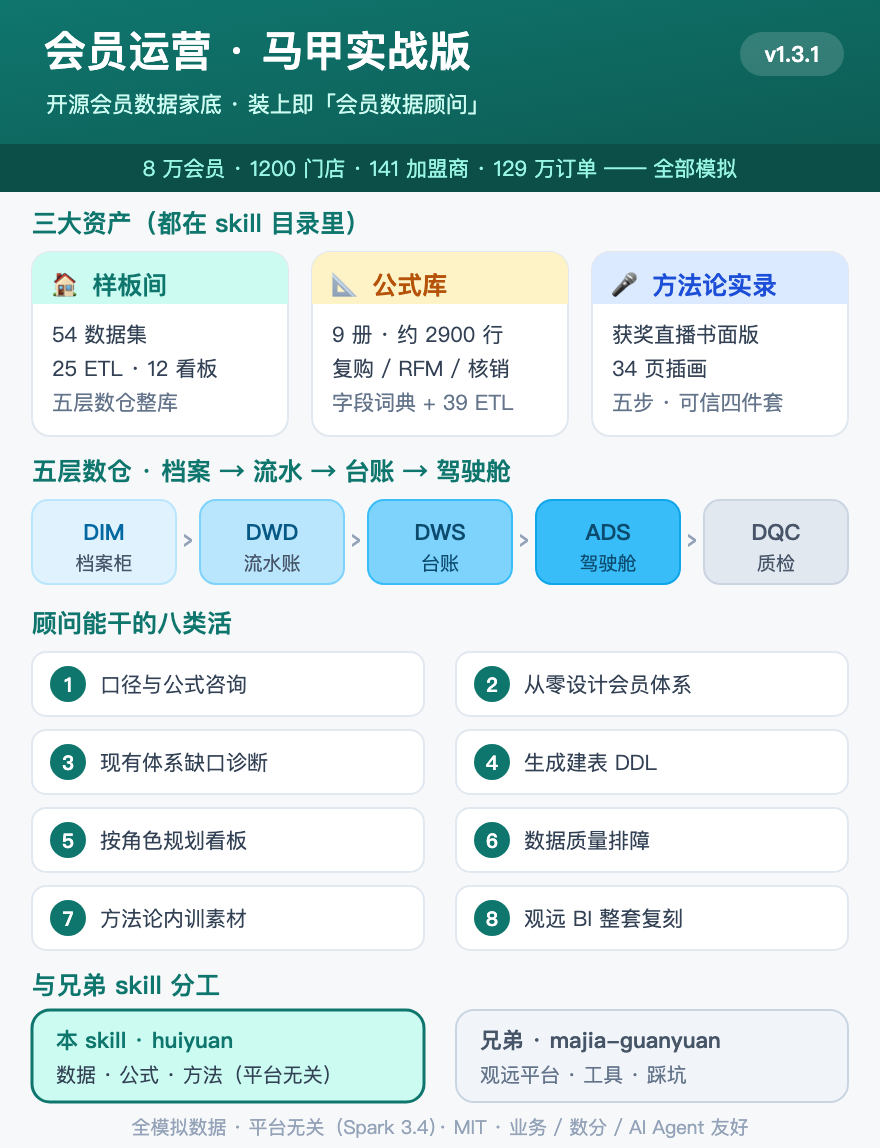
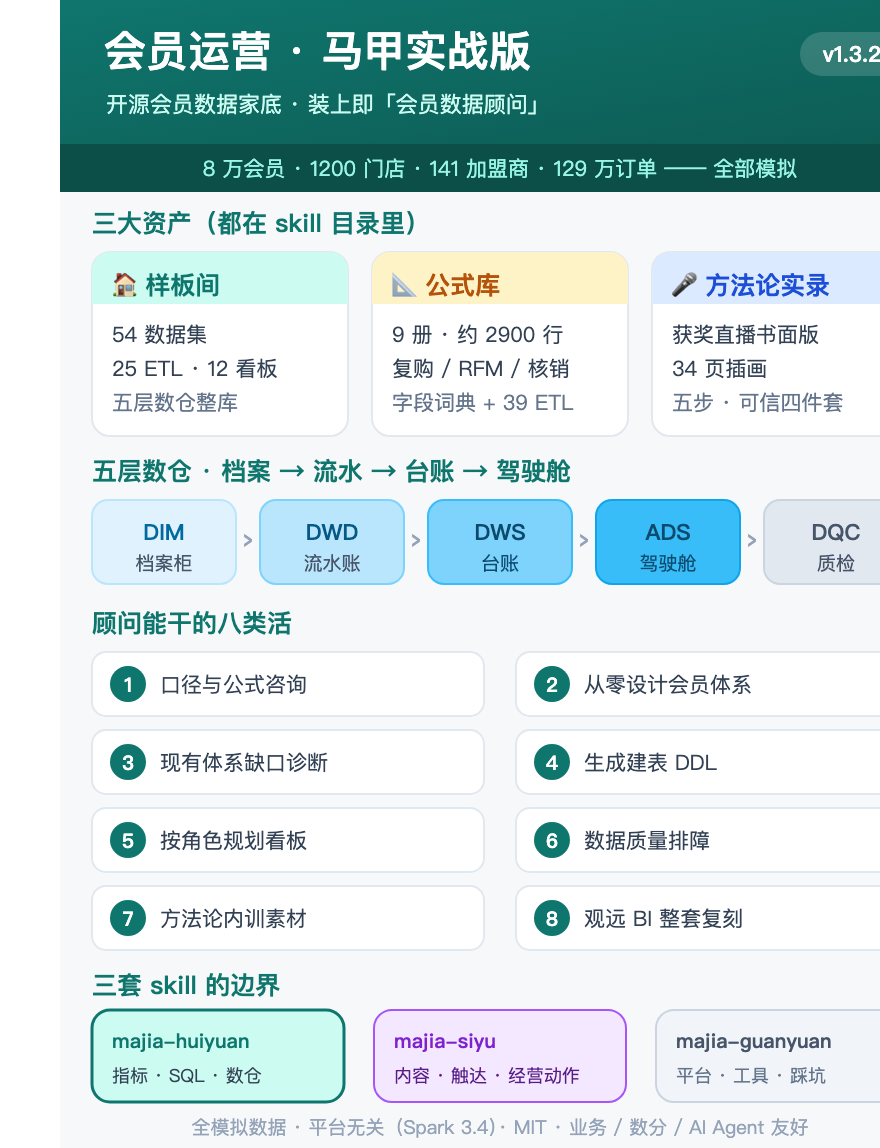
fix: separate membership data routing in v1.3.2

diff --git a/SKILL.md b/SKILL.md
@@ -1,9 +1,9 @@
 ---
 name: majia-huiyuan
-description: 会员运营·马甲实战版（majia-huiyuan）Agent Skill —— 把一套完整开源的连锁会员数据家底变成你的会员数据顾问：咖啡连锁模拟数据中台样板间（54 数据集 / 25 条 ETL / 12 张看板，DIM/DWD/DWS/ADS/DQC 五层，8 万会员 · 1200 门店 · 129 万订单全模拟）+ 餐饮 BI 公式实战库（9 册约 2900 行：复购跨天 vs 非跨天 / RFM 8 类×营销策略 / 核销折扣 / 消费频次 3 口径 / 留存流失 / 通用字段词典 / NULL 三态坑 / DWD 宽表范式 / 39 生产 ETL 索引）+ 获奖直播方法论实录（五步动作链 / 可信四件套 / AI 会闭嘴 / 误报比漏报贵）。八类活：①口径与公式咨询 ②从零设计会员数据体系（DIM→DWD→DWS→ADS 分阶段最小可用集）③现有体系缺口诊断（54 表 checklist 对照）④生成建表 DDL ⑤按角色规划看板（老板/会员负责人/店长/加盟商）⑥数据质量排障（字段重名/口径歧义/对账自检）⑦会员数据方法论讲解与内训素材 ⑧观远 BI 整套复刻。触发：会员运营 / 会员数据 / 会员体系 / 会员中台 / 私域数据 / 复购率 / RFM / 留存 / 流失 / 核销率 / 客单价 / 消费频次 / 会员分层 / 生命周期 / 同期群 / Cohort / 转化漏斗 / 私域漏斗 / 加盟商报告 / 门店日报 / 数仓分层 / DIM / DWD / DWS / ADS / 字段词典 / 数据口径 / 连锁餐饮数据 / 会员看板 / 搭会员数据体系 / CRM 数据 / 豁免日历 / 归因清单。数值全为模拟，仅结构与口径可引用；方法平台无关（SQL 为 Spark 3.4 方言）；观远 BI 平台操作与踩坑走兄弟 skill majia-guanyuan。
+description: "会员数据顾问·马甲实战版（majia-huiyuan）。当核心交付物是会员指标口径、RFM、复购/留存/流失公式、核销率、客单价、会员分层、Cohort、CRM/私域数据分析、会员数仓（DIM/DWD/DWS/ADS）、SQL/DDL、字段词典、数据质量、会员看板或观远 BI 复刻时使用。只有出现“数据、指标、公式、怎么算、SQL、表、看板、核验”等明确信号时才处理私域问题。若用户要朋友圈、群发、欢迎语、社群触达、企微运营动作、私域整盘经营诊断或任务下一步，不要触发本 Skill，改用 majia-siyu。全部数值为模拟数据，仅结构与口径可引用。"
 license: MIT
 metadata:
-  version: "1.3.1"
+  version: "1.3.2"
   author: "超级马甲 / maojiebc"
   homepage: https://github.com/maojiebc/majia-huiyuan
   openclaw:
@@ -57,12 +57,13 @@ metadata:
 ## 与兄弟 skill 的分工
 
 - **majia-huiyuan（本 skill）**：会员运营的数据与公式——体系怎么设计、口径怎么算、看板给谁看。**平台无关。**
+- **[majia-siyu](https://github.com/maojiebc/majia-siyu-team)**：私域经营动作——朋友圈、群发、欢迎语、社群触达、企微运营和整盘经营诊断。
 - **[majia-guanyuan](https://github.com/maojiebc/majia-guanyuan)**：观远 BI 平台的工具与踩坑——ETL 治理、报错手册、自定义图表注入、发布状态机。用户在观远平台上动手时切过去。
 
 ## 📋 版本记录
 
+- **v1.3.2**（2026-07-28）触发边界修复：聚焦会员数据、指标、SQL、数仓与看板；私域内容、触达和经营动作明确交给 majia-siyu。
 - **v1.3.1**（2026-07-23）文档装修：功能架构图 + README.en.md + 品牌后缀落地，内容零改动。
 - **v1.3.0**（2026-07-12）Skill 化：SKILL.md + manifest.json 进仓库，顾问型八类活任务路由。
-- **v1.2.0**（2026-07-12）新增《区域运营的一天》获奖直播书面实录（34 页插画）。
 
 完整历史见 [GitHub Releases](https://github.com/maojiebc/majia-huiyuan/releases)。

diff --git a/README.md b/README.md
@@ -1,6 +1,6 @@
 # majia-huiyuan · 会员运营家底（开源样板间）
 
-[![Skill Version](https://img.shields.io/badge/skill-v1.3.1-blue)](./SKILL.md)
+[![Skill Version](https://img.shields.io/badge/skill-v1.3.2-blue)](./SKILL.md)
 [![License: MIT](https://img.shields.io/badge/license-MIT-green)](./LICENSE)
 [![skills.sh](https://skills.sh/b/maojiebc/majia-huiyuan)](https://skills.sh/maojiebc/majia-huiyuan)
 [![Release](https://img.shields.io/github/v/release/maojiebc/majia-huiyuan?label=release&color=success)](https://github.com/maojiebc/majia-huiyuan/releases)
@@ -12,7 +12,7 @@
 > 数据全部模拟生成，与任何真实企业无关。MIT 协议，个人用、公司用、商用，都随便。
 
 <p align="center">
-  <img src="https://raw.githubusercontent.com/maojiebc/majia-huiyuan/main/docs/architecture.png" width="440" alt="majia-huiyuan v1.3.1 功能架构：三大资产（样板间 54 数据集/25 ETL/12 看板 · 公式库 9 册 2900 行 · 方法论实录 34 页直播）+ 五层数仓 DIM→DWD→DWS→ADS→DQC + 会员数据顾问八类活（口径咨询/体系设计/缺口诊断/建表 DDL/看板规划/质量排障/方法论内训/观远复刻）+ 与兄弟 skill majia-guanyuan 分工"/>
+  <img src="https://raw.githubusercontent.com/maojiebc/majia-huiyuan/main/docs/architecture.png" width="440" alt="majia-huiyuan v1.3.2 功能架构：三大资产 + 五层数仓 + 会员数据顾问八类活 + 与 majia-siyu（私域经营动作）及 majia-guanyuan（平台工具）的分工"/>
 </p>
 
 **谁适合看**：做会员、做私域的业务同学；做数据分析、数据建设的同学；想给自己公司从零搭一套会员数据体系的人。**不需要会写代码。**
@@ -227,6 +227,7 @@ git clone https://github.com/maojiebc/majia-huiyuan.git ~/.codex/skills/majia-hu
 
 | 项目 | 关系 |
 |---|---|
+| [majia-siyu](https://github.com/maojiebc/majia-siyu-team) | 私域经营动作入口。**朋友圈、群发、欢迎语、社群触达与整盘经营诊断在那边；指标、公式、SQL 与看板在本库。** |
 | [majia-guanyuan](https://github.com/maojiebc/majia-guanyuan) | 观远 BI 实战增益层 skill。**工具与踩坑手册在那边，数据与公式在这边**；本库的模拟中台和公式库都源自它，现独立迭代 |
 
 ## 路线图
@@ -241,13 +242,11 @@ git clone https://github.com/maojiebc/majia-huiyuan.git ~/.codex/skills/majia-hu
 
 ## 📋 版本记录
 
-**最新：V1.3.1** (2026-07-23) — **文档装修**：新增功能架构图（`docs/architecture.svg` + PNG，三大资产 / 五层数仓 / 八类活一图看全）、README.en.md 英文版、品牌后缀「· 马甲实战版」pixel-perfect 落到各展示面。内容零改动。
+**最新：V1.3.2** (2026-07-28) — **触发边界修复**：聚焦会员数据、指标口径、SQL、数仓与看板；私域内容、触达和经营动作明确交给 `majia-siyu`。
+
+**V1.3.1** (2026-07-23) — **文档装修**：新增功能架构图（`docs/architecture.svg` + PNG，三大资产 / 五层数仓 / 八类活一图看全）、README.en.md 英文版、品牌后缀「· 马甲实战版」pixel-perfect 落到各展示面。内容零改动。
 
 **V1.3.0** (2026-07-12) — **Skill 化**：新增 SKILL.md + manifest.json，仓库本体即 Agent Skill，可经 ClawHub / gh skill / git clone 安装；顾问型定位（八类活任务路由 + 五条硬约束）。
-
-**V1.2.0** (2026-07-12) — 新增《区域运营的一天》获奖直播书面实录（34 页插画长文：五步动作链 / 可信四件套 / 三案例现场实录 / 落地 FAQ）。
-
-完整变更历史见 [GitHub Releases](https://github.com/maojiebc/majia-huiyuan/releases)。
 
 完整历史见 [GitHub Releases](https://github.com/maojiebc/majia-huiyuan/releases)。
 

diff --git a/README.en.md b/README.en.md
@@ -1,6 +1,6 @@
 # majia-huiyuan · Membership Ops Playbook
 
-[![Skill Version](https://img.shields.io/badge/skill-v1.3.1-blue)](./SKILL.md)
+[![Skill Version](https://img.shields.io/badge/skill-v1.3.2-blue)](./SKILL.md)
 [![License: MIT](https://img.shields.io/badge/license-MIT-green)](./LICENSE)
 [![skills.sh](https://skills.sh/b/maojiebc/majia-huiyuan)](https://skills.sh/maojiebc/majia-huiyuan)
 [![Release](https://img.shields.io/github/v/release/maojiebc/majia-huiyuan?label=release&color=success)](https://github.com/maojiebc/majia-huiyuan/releases)
@@ -11,7 +11,7 @@
 > All data is simulated — unrelated to any real company. MIT licensed: personal, corporate, commercial use, all fine.
 
 <p align="center">
-  <img src="https://raw.githubusercontent.com/maojiebc/majia-huiyuan/main/docs/architecture.png" width="440" alt="majia-huiyuan v1.3.1 architecture: three assets (showroom 54 datasets/25 ETLs/12 dashboards, formula playbook 9 volumes/2900 lines, methodology transcript 34 slides) + five warehouse layers DIM→DWD→DWS→ADS→DQC + eight consulting jobs + division of labor with sibling skill majia-guanyuan"/>
+  <img src="https://raw.githubusercontent.com/maojiebc/majia-huiyuan/main/docs/architecture.png" width="440" alt="majia-huiyuan v1.3.2 architecture: three assets, five warehouse layers, eight consulting jobs, and boundaries with majia-siyu for private-domain actions and majia-guanyuan for platform tooling"/>
 </p>
 
 **English README ↓ · [中文说明](./README.md)**
@@ -53,7 +53,16 @@ git clone https://github.com/maojiebc/majia-huiyuan.git ~/.claude/skills/majia-h
 
 | Project | Relationship |
 |---|---|
+| [majia-siyu](https://github.com/maojiebc/majia-siyu-team) | Private-domain operating actions: Moments, broadcasts, welcome scripts, community engagement, and whole-funnel diagnosis. Data definitions, SQL, and dashboards stay here. |
 | [majia-guanyuan](https://github.com/maojiebc/majia-guanyuan) | Guandata BI field-gain-layer skill. **Tools & pitfall handbooks there, data & formulas here.** |
+
+## Version History
+
+- **v1.3.2** (2026-07-28): Tightened routing to membership data, metric definitions, SQL, warehouse design, and dashboards; private-domain content and engagement actions now route to `majia-siyu`.
+- **v1.3.1** (2026-07-23): Added the architecture preview, English README, and branded display surfaces.
+- **v1.3.0** (2026-07-12): Converted the repository into a consultant-style Agent Skill.
+
+Full history: [GitHub Releases](https://github.com/maojiebc/majia-huiyuan/releases).
 
 ## 👤 Author
 
